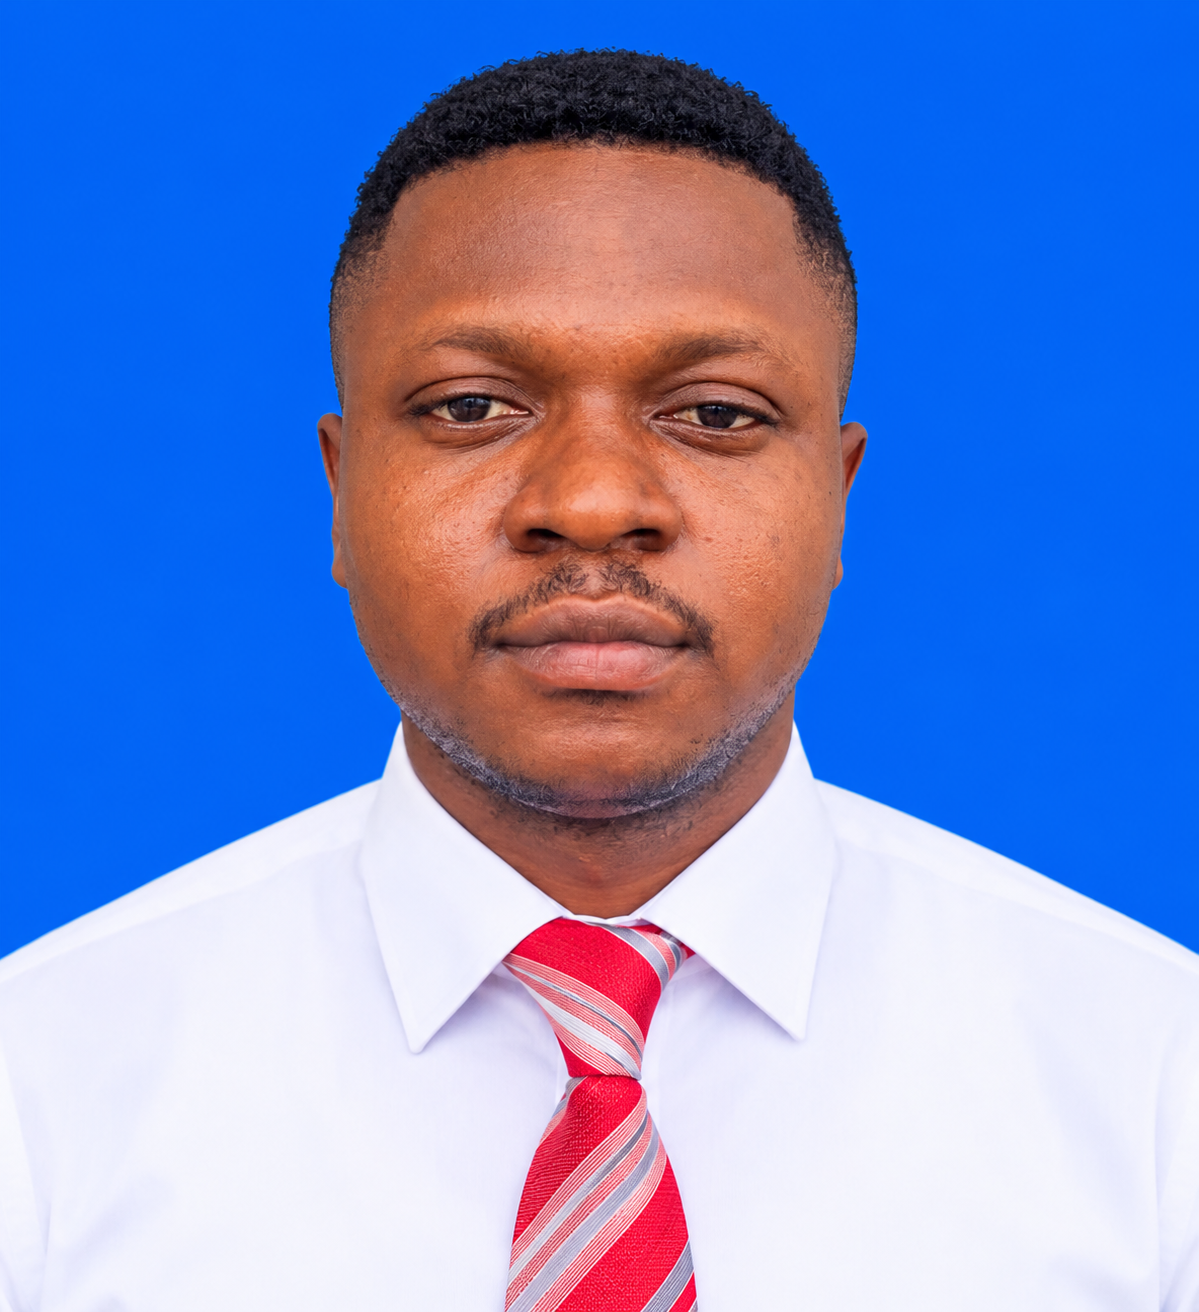
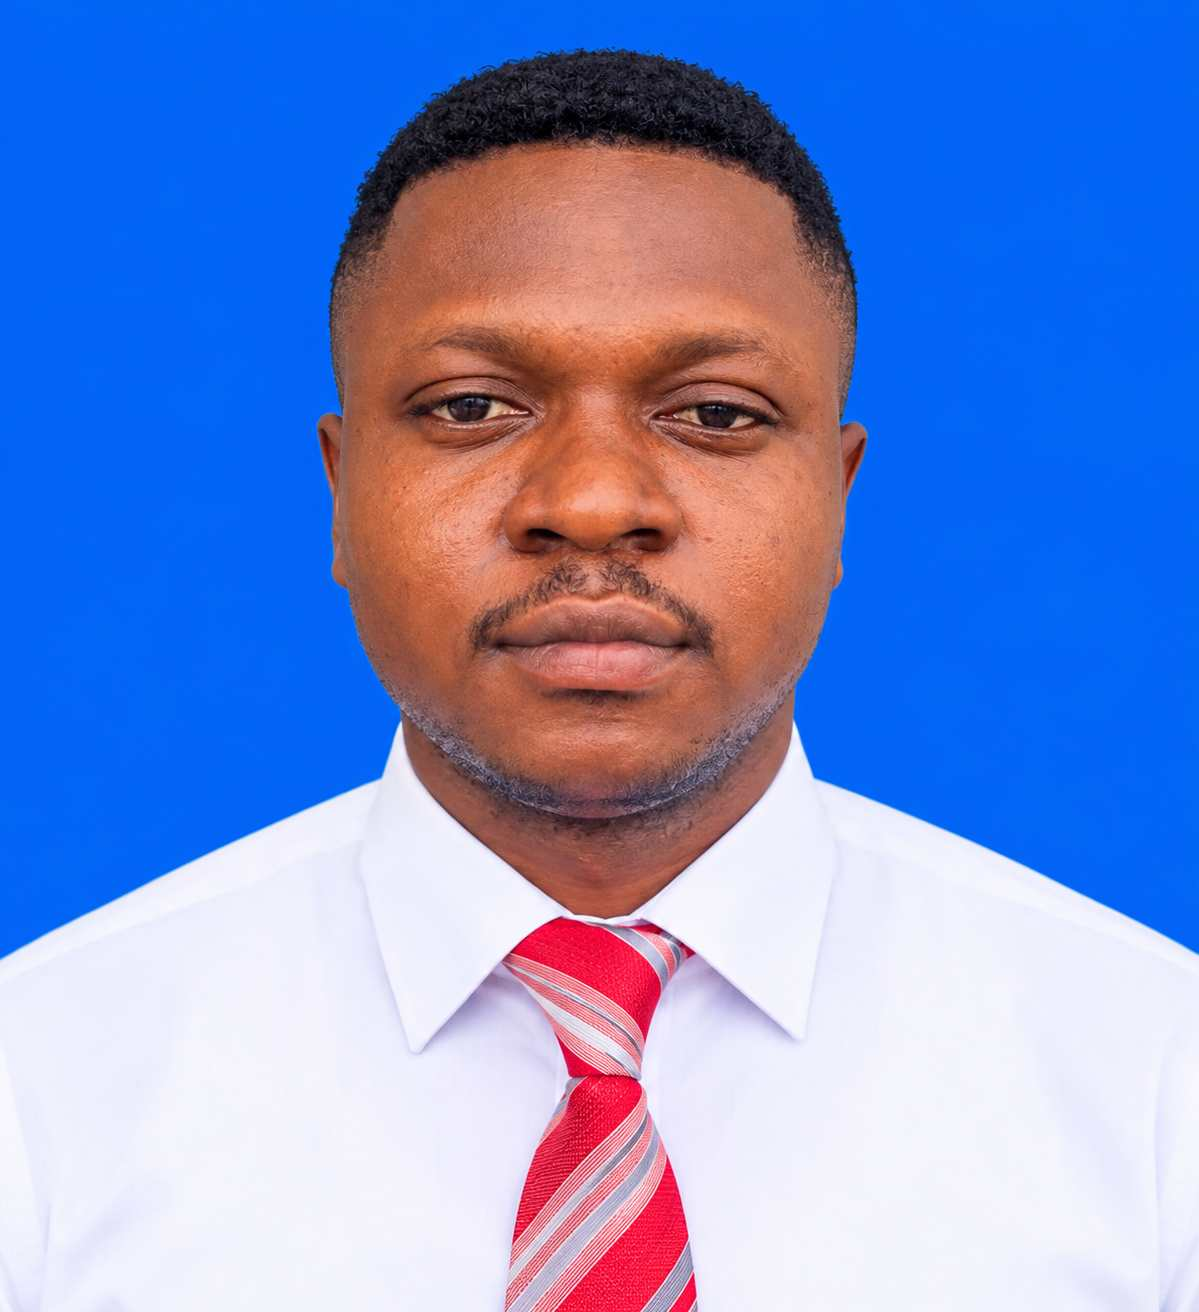
changes

Changed region(s): [[0.432, 0.75, 0.5555, 1.0], [0.5246, 0.9688, 0.5863, 1.0], [0.6172, 0.0625, 0.648, 0.0938]]

diff --git a/styles/styles.css b/styles/styles.css
@@ -22,7 +22,7 @@ img {
 }
 
 p {
-  padding: 10px;
+  padding: 0;
 }
 
 main {
@@ -47,10 +47,9 @@ aside img {
 main img {
   width: 150px;
   height: auto;
-}
-
-p {
-  padding: 0;
+  border: 1px solid black;
+  padding: 2px;
+  box-shadow: 0 0 30px gray;
 }
 
 footer {
